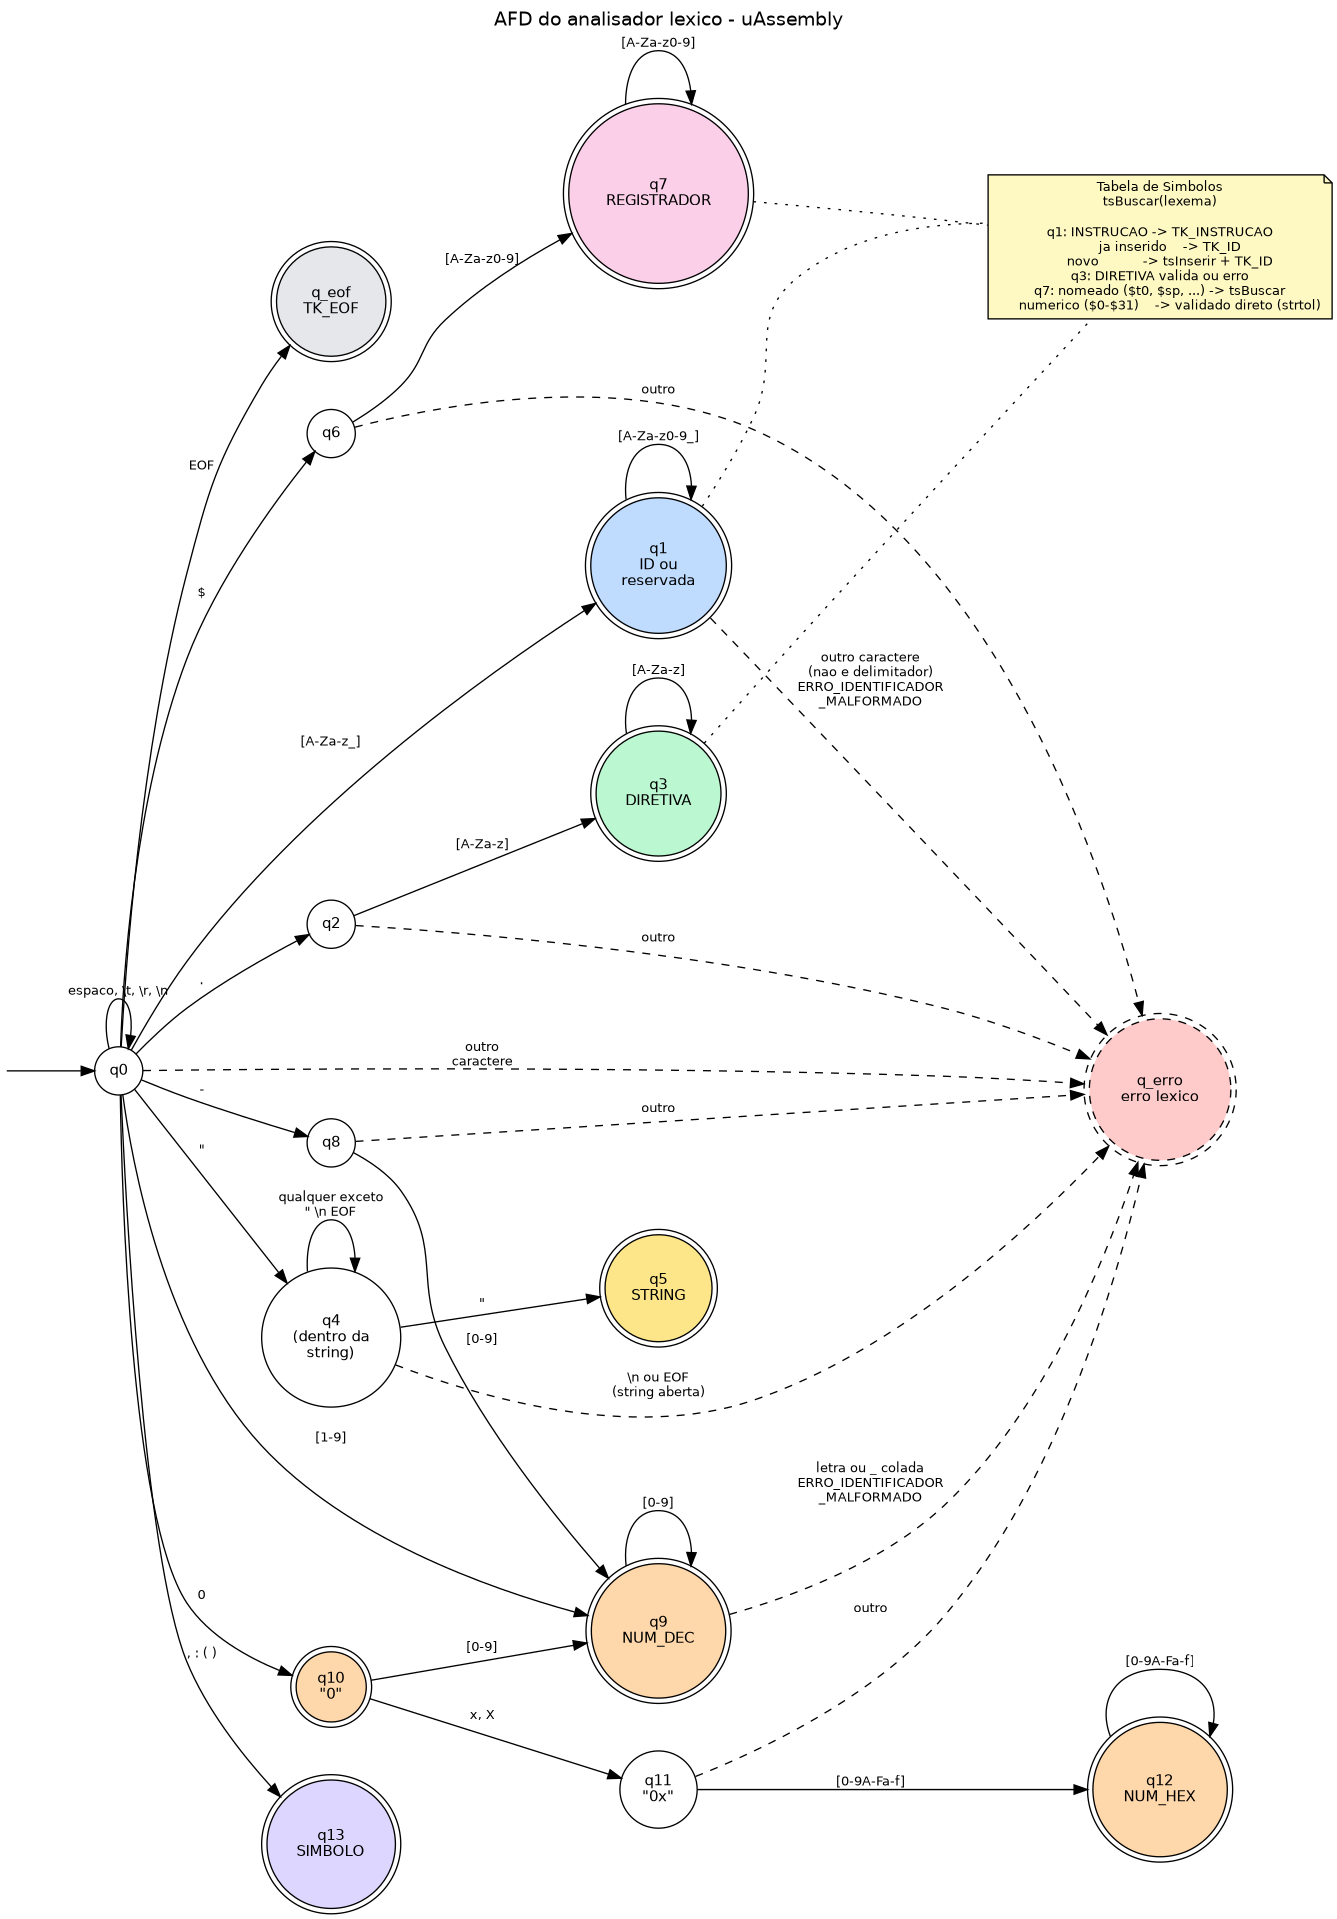
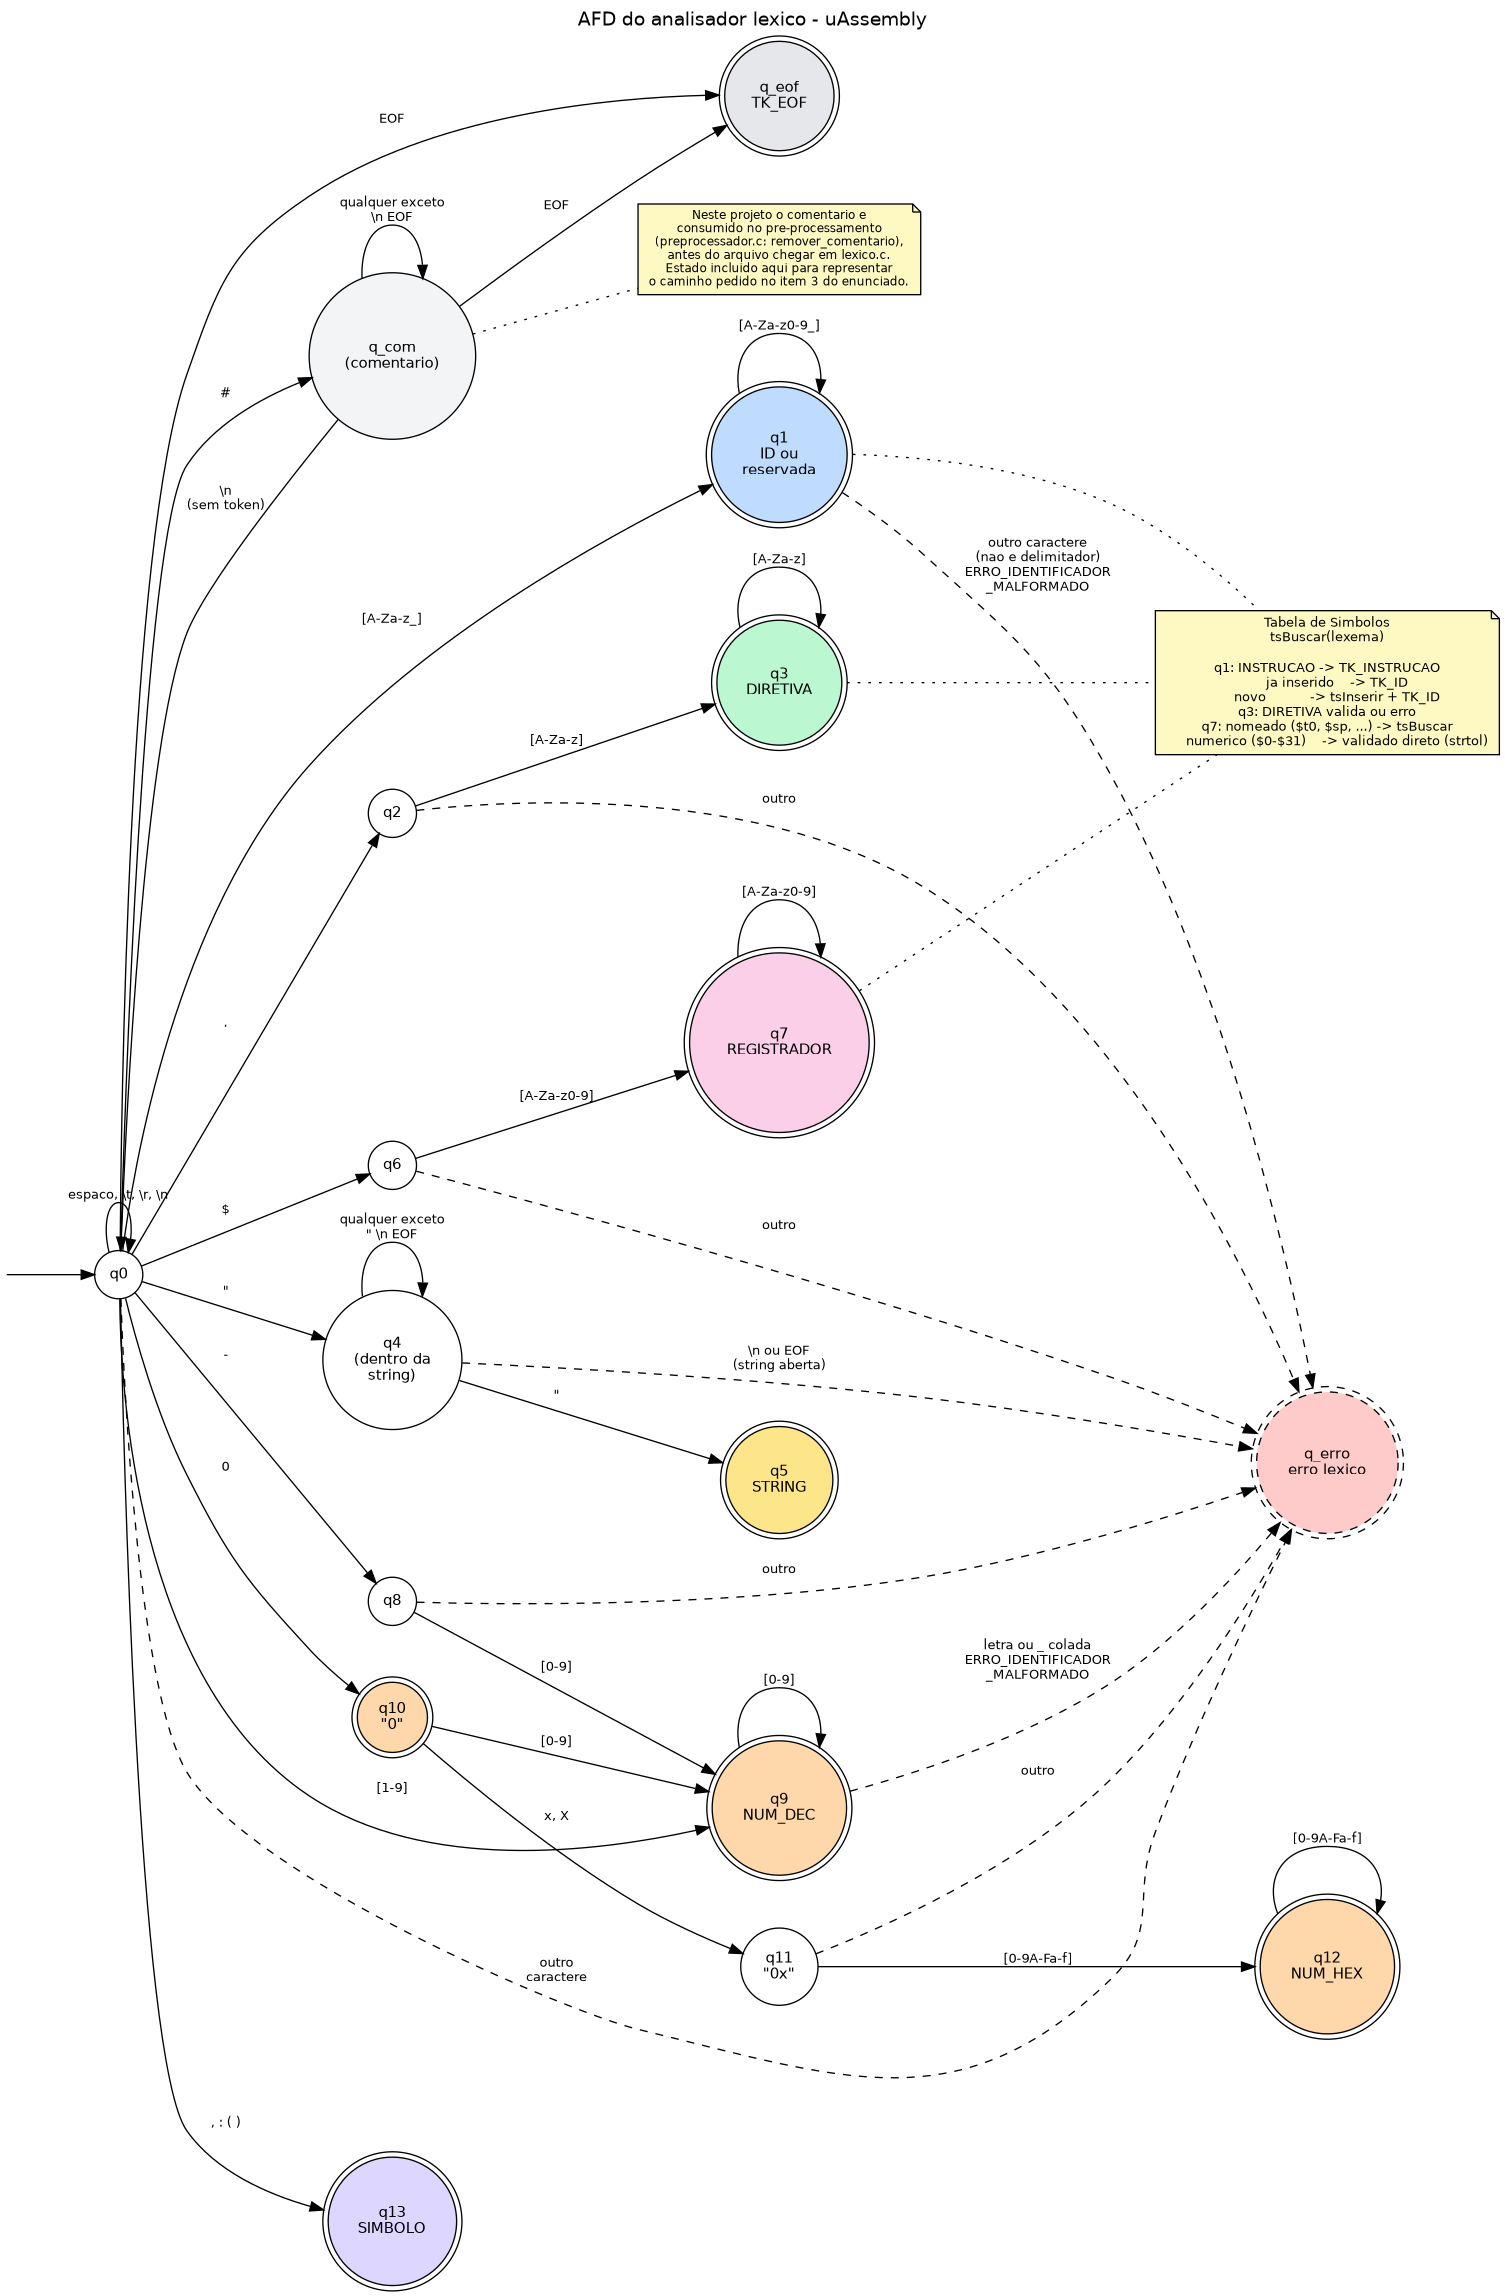
fix

diff --git a/lexico.c b/lexico.c
@@ -372,8 +372,6 @@ void afdNumero(Scanner *s, int primeiro, Token *t){
             if (pos < MAX_LEXEMA - 1) buffer[pos++] = (char)c;
             c = scannerLer(s);
         }
-        scannerDevolver(s, c);
-        buffer[pos] = '\0';
 
         if (!temHex) {
             while (isalnum((unsigned char)c) || c == '_') {
